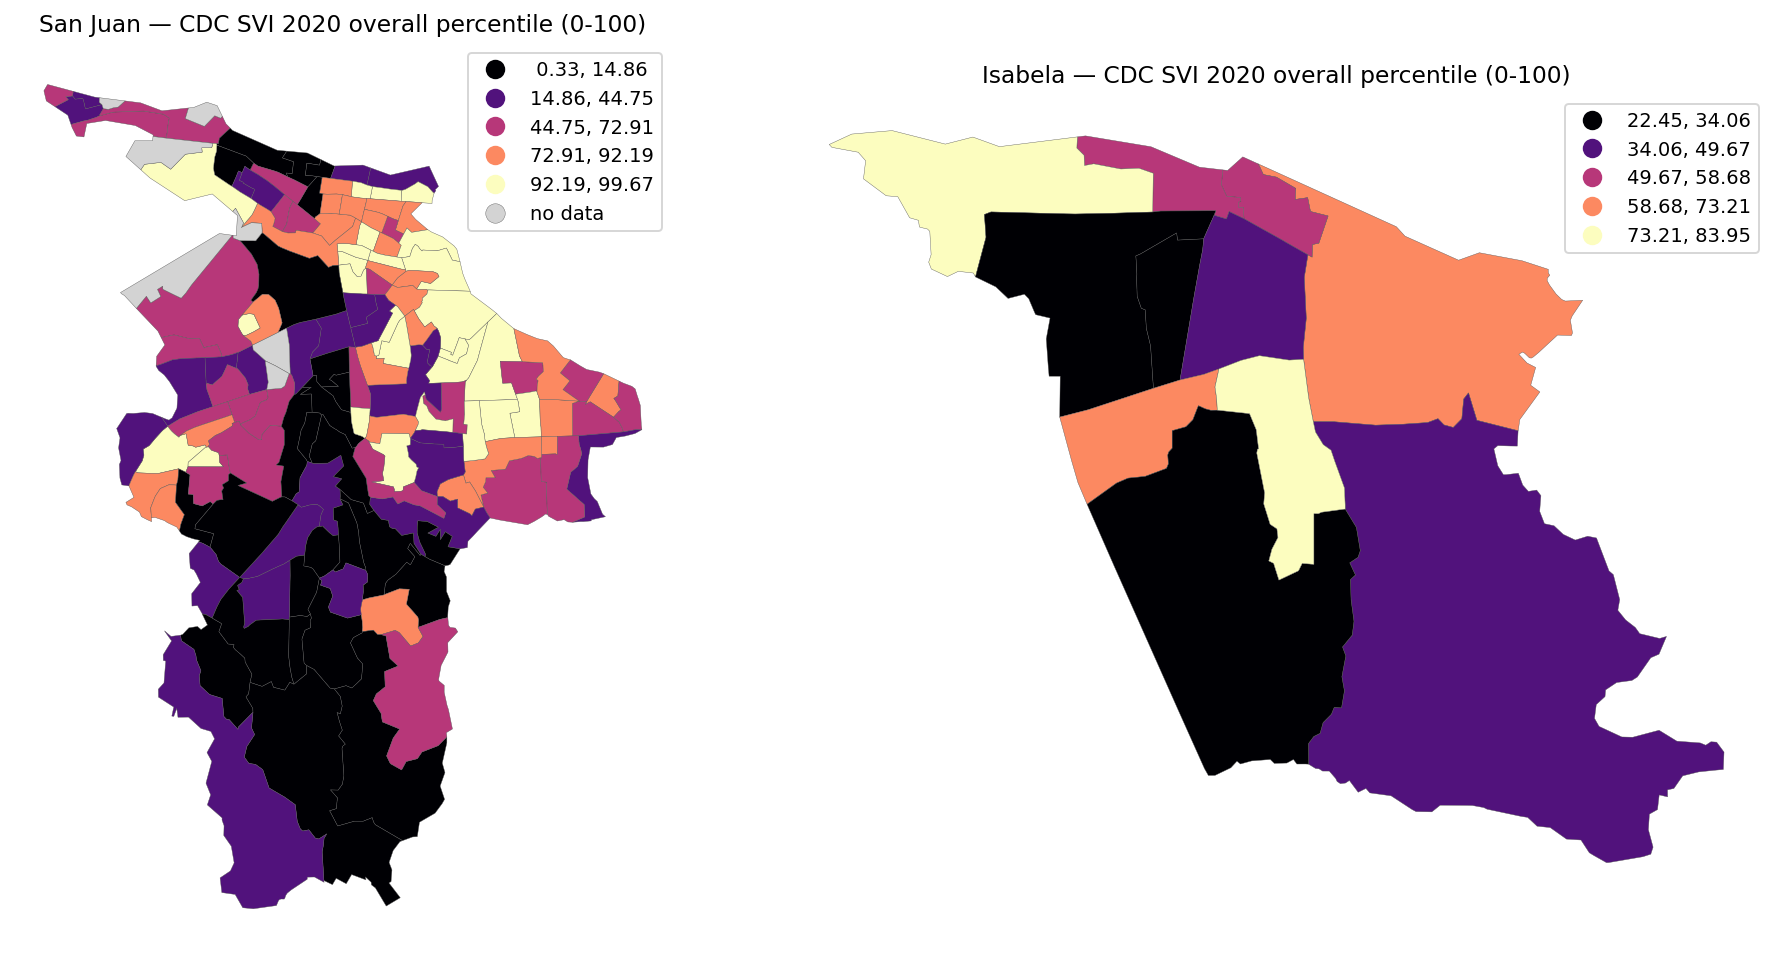
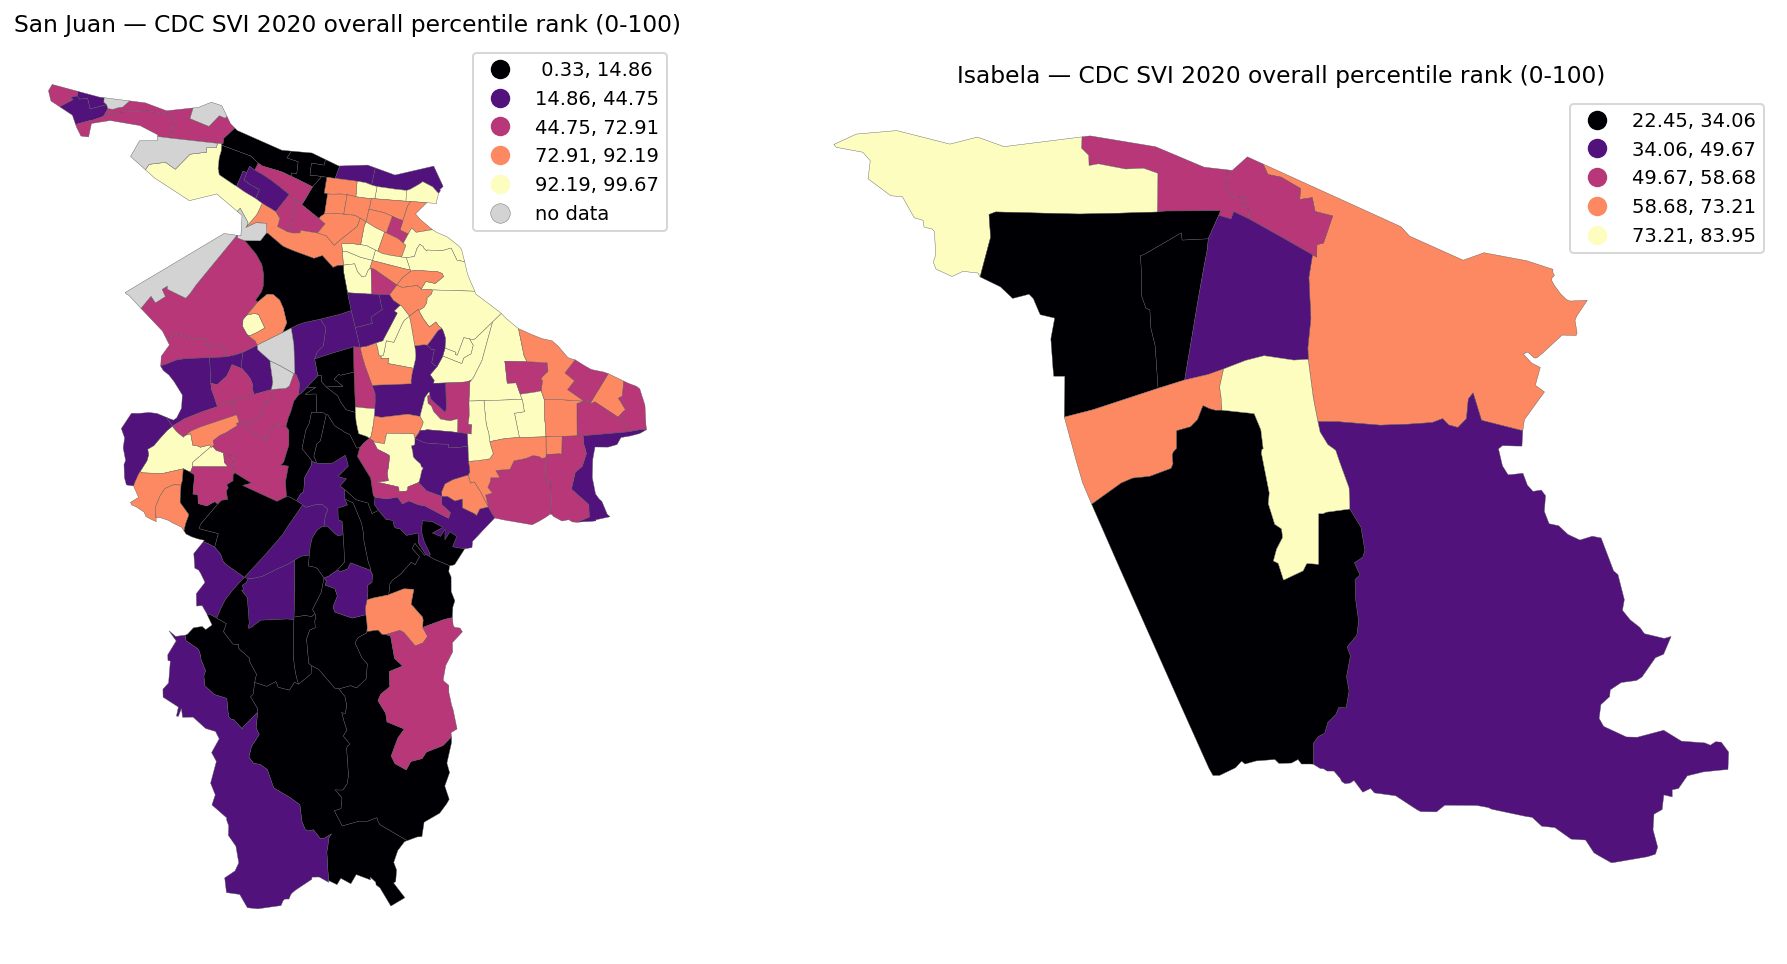
update with some notes and docs on CDC SVI dataset

diff --git a/notebooks/tabular/14_pv_bg_aggregation.py b/notebooks/tabular/14_pv_bg_aggregation.py
@@ -119,7 +119,7 @@ PUBLIC_METRIC_LABELS = {
     "pct_bachelor_plus": "Share age 25+ with Bachelor's or higher",
     "pct_spanish_english_well_18_64": "Share of Spanish-speaking adults 18-64 who speak English well",
     "pct_spanish_english_not_at_all_18_64": "Share of Spanish-speaking adults 18-64 who speak no English",
-    "cdc_svi_2020_overall_percentile": "CDC SVI 2020 overall percentile (0-100)",
+    "cdc_svi_2020_overall_percentile": "CDC SVI 2020 overall percentile rank (0-100)",
     "pct_urban_land_area": "Urban land-area share",
 }
 
@@ -190,11 +190,11 @@ MAP_FIGURE_SPECS: tuple[dict[str, str], ...] = (
     },
     {
         "column": "cdc_svi_2020_overall_percentile",
-        "title": "CDC SVI 2020 overall percentile (0-100)",
+        "title": "CDC SVI 2020 overall percentile rank (0-100)",
         "filename": "cdc_svi_2020_overall_percentile_choropleth.png",
         "cmap": "magma",
-        "what": "The CDC/ATSDR Social Vulnerability Index overall percentile for 2020 Puerto Rico tracts, scaled from 0 to 100.",
-        "why": "This replaces the earlier diversity-index map with an established public-health vulnerability measure that is much more interpretable in the Puerto Rico planning context.",
+        "what": "The CDC/ATSDR 2020 overall vulnerability ranking variable `RPL_THEMES`, rescaled from its native 0-1 percentile rank to 0-100 for easier public reading.",
+        "why": "CDC guidance identifies `RPL_THEMES` as the overall ranking variable for social vulnerability; the raw `SPL_THEMES` sum is an intermediate score, so the percentile rank is the more interpretable public-facing map.",
     },
     {
         "column": "pct_urban_land_area",
@@ -411,12 +411,25 @@ def load_cdc_svi_2020_tracts() -> pd.DataFrame:
         raise RuntimeError("CDC SVI 2020 tract file loaded but returned no rows.")
 
     frame[AGG_GEOID_COLUMN] = frame["FIPS"].astype(str).str.replace(r"\D", "", regex=True).str.zfill(11)
-    output = frame[[AGG_GEOID_COLUMN, "LOCATION", "RPL_THEMES"]].copy()
+    output = frame[[AGG_GEOID_COLUMN, "LOCATION", "SPL_THEMES", "RPL_THEMES"]].copy()
     output = output.rename(columns={"LOCATION": "cdc_svi_2020_location"})
+    theme_rank_sum = pd.to_numeric(output["SPL_THEMES"], errors="coerce")
+    theme_rank_sum = theme_rank_sum.mask(theme_rank_sum < 0)
+    output["cdc_svi_2020_theme_rank_sum"] = theme_rank_sum
+
+    # CDC/ATSDR documents RPL_THEMES as the official overall ranking variable.
+    # SPL_THEMES is the summed intermediate score used before percentile ranking.
     svi_percentile = pd.to_numeric(output["RPL_THEMES"], errors="coerce")
     svi_percentile = svi_percentile.mask(svi_percentile < 0)
     output["cdc_svi_2020_overall_percentile"] = svi_percentile * 100.0
-    return output[[AGG_GEOID_COLUMN, "cdc_svi_2020_location", "cdc_svi_2020_overall_percentile"]].copy()
+    return output[
+        [
+            AGG_GEOID_COLUMN,
+            "cdc_svi_2020_location",
+            "cdc_svi_2020_theme_rank_sum",
+            "cdc_svi_2020_overall_percentile",
+        ]
+    ].copy()
 
 
 def load_local_acs_tracts(con: duckdb.DuckDBPyConnection) -> tuple[int, pd.DataFrame]:
@@ -654,6 +667,7 @@ def write_indicator_guide(gdf: gpd.GeoDataFrame, output_path: Path) -> None:
         "",
         "This note explains the tract maps and Moran diagnostics exported by `14_pv_bg_aggregation.py`.",
         "Public-facing PV indicators are scaled per 1,000 buildings so readers do not have to interpret very small decimals.",
+        "For CDC SVI, the map uses the official overall ranking variable `RPL_THEMES`, which CDC defines as a percentile rank; the notebook rescales that rank from 0-1 to 0-100 for readability.",
         "",
     ]
 

diff --git a/outputs/reports/pv_tract_indicator_guide.md b/outputs/reports/pv_tract_indicator_guide.md
@@ -2,6 +2,7 @@
 
 This note explains the tract maps and Moran diagnostics exported by `14_pv_bg_aggregation.py`.
 Public-facing PV indicators are scaled per 1,000 buildings so readers do not have to interpret very small decimals.
+For CDC SVI, the map uses the official overall ranking variable `RPL_THEMES`, which CDC defines as a percentile rank; the notebook rescales that rank from 0-1 to 0-100 for readability.
 
 ## Buildings with any PV evidence per 1,000 buildings
 
@@ -59,11 +60,11 @@ Public-facing PV indicators are scaled per 1,000 buildings so readers do not hav
 - How to read it: This is the opposite bilingual-capacity extreme and helps interpret where language access barriers may align with lower rooftop-PV uptake.
 - Observed range across case-study tracts: San Juan: 0.00 to 0.67; Isabela: 0.15 to 0.46
 
-## CDC SVI 2020 overall percentile (0-100)
+## CDC SVI 2020 overall percentile rank (0-100)
 
 - Output file: `outputs/maps/cdc_svi_2020_overall_percentile_choropleth.png`
-- What it measures: The CDC/ATSDR Social Vulnerability Index overall percentile for 2020 Puerto Rico tracts, scaled from 0 to 100.
-- How to read it: This replaces the earlier diversity-index map with an established public-health vulnerability measure that is much more interpretable in the Puerto Rico planning context.
+- What it measures: The CDC/ATSDR 2020 overall vulnerability ranking variable `RPL_THEMES`, rescaled from its native 0-1 percentile rank to 0-100 for easier public reading.
+- How to read it: CDC guidance identifies `RPL_THEMES` as the overall ranking variable for social vulnerability; the raw `SPL_THEMES` sum is an intermediate score, so the percentile rank is the more interpretable public-facing map.
 - Observed range across case-study tracts: San Juan: 0.33 to 99.67; Isabela: 22.45 to 83.95
 
 ## Urban land-area share
